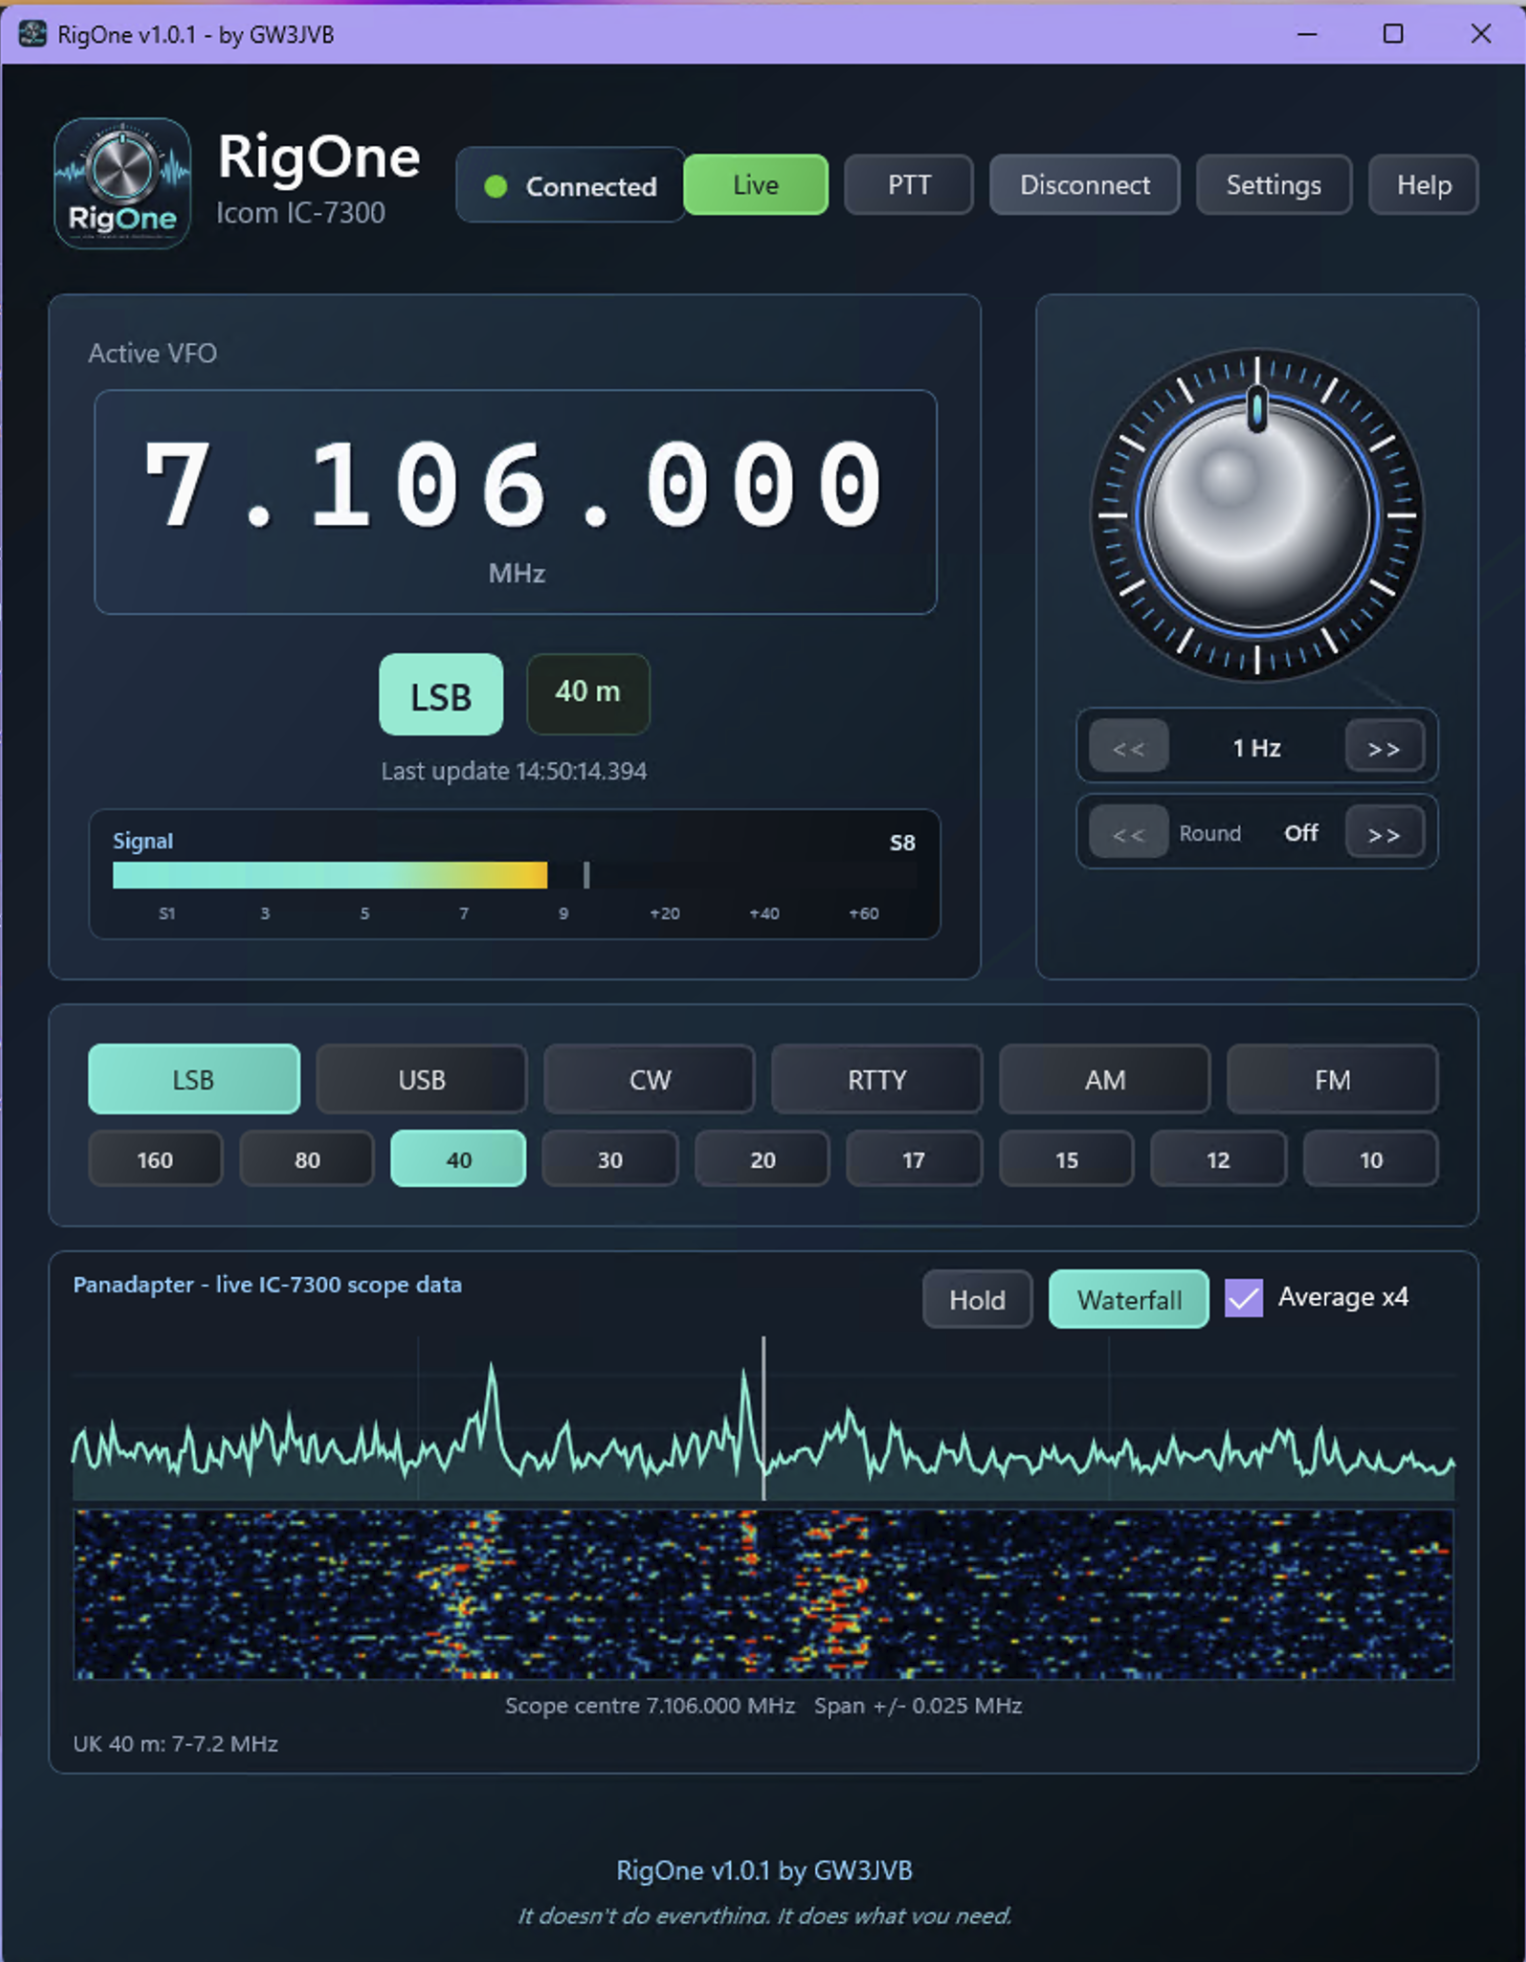
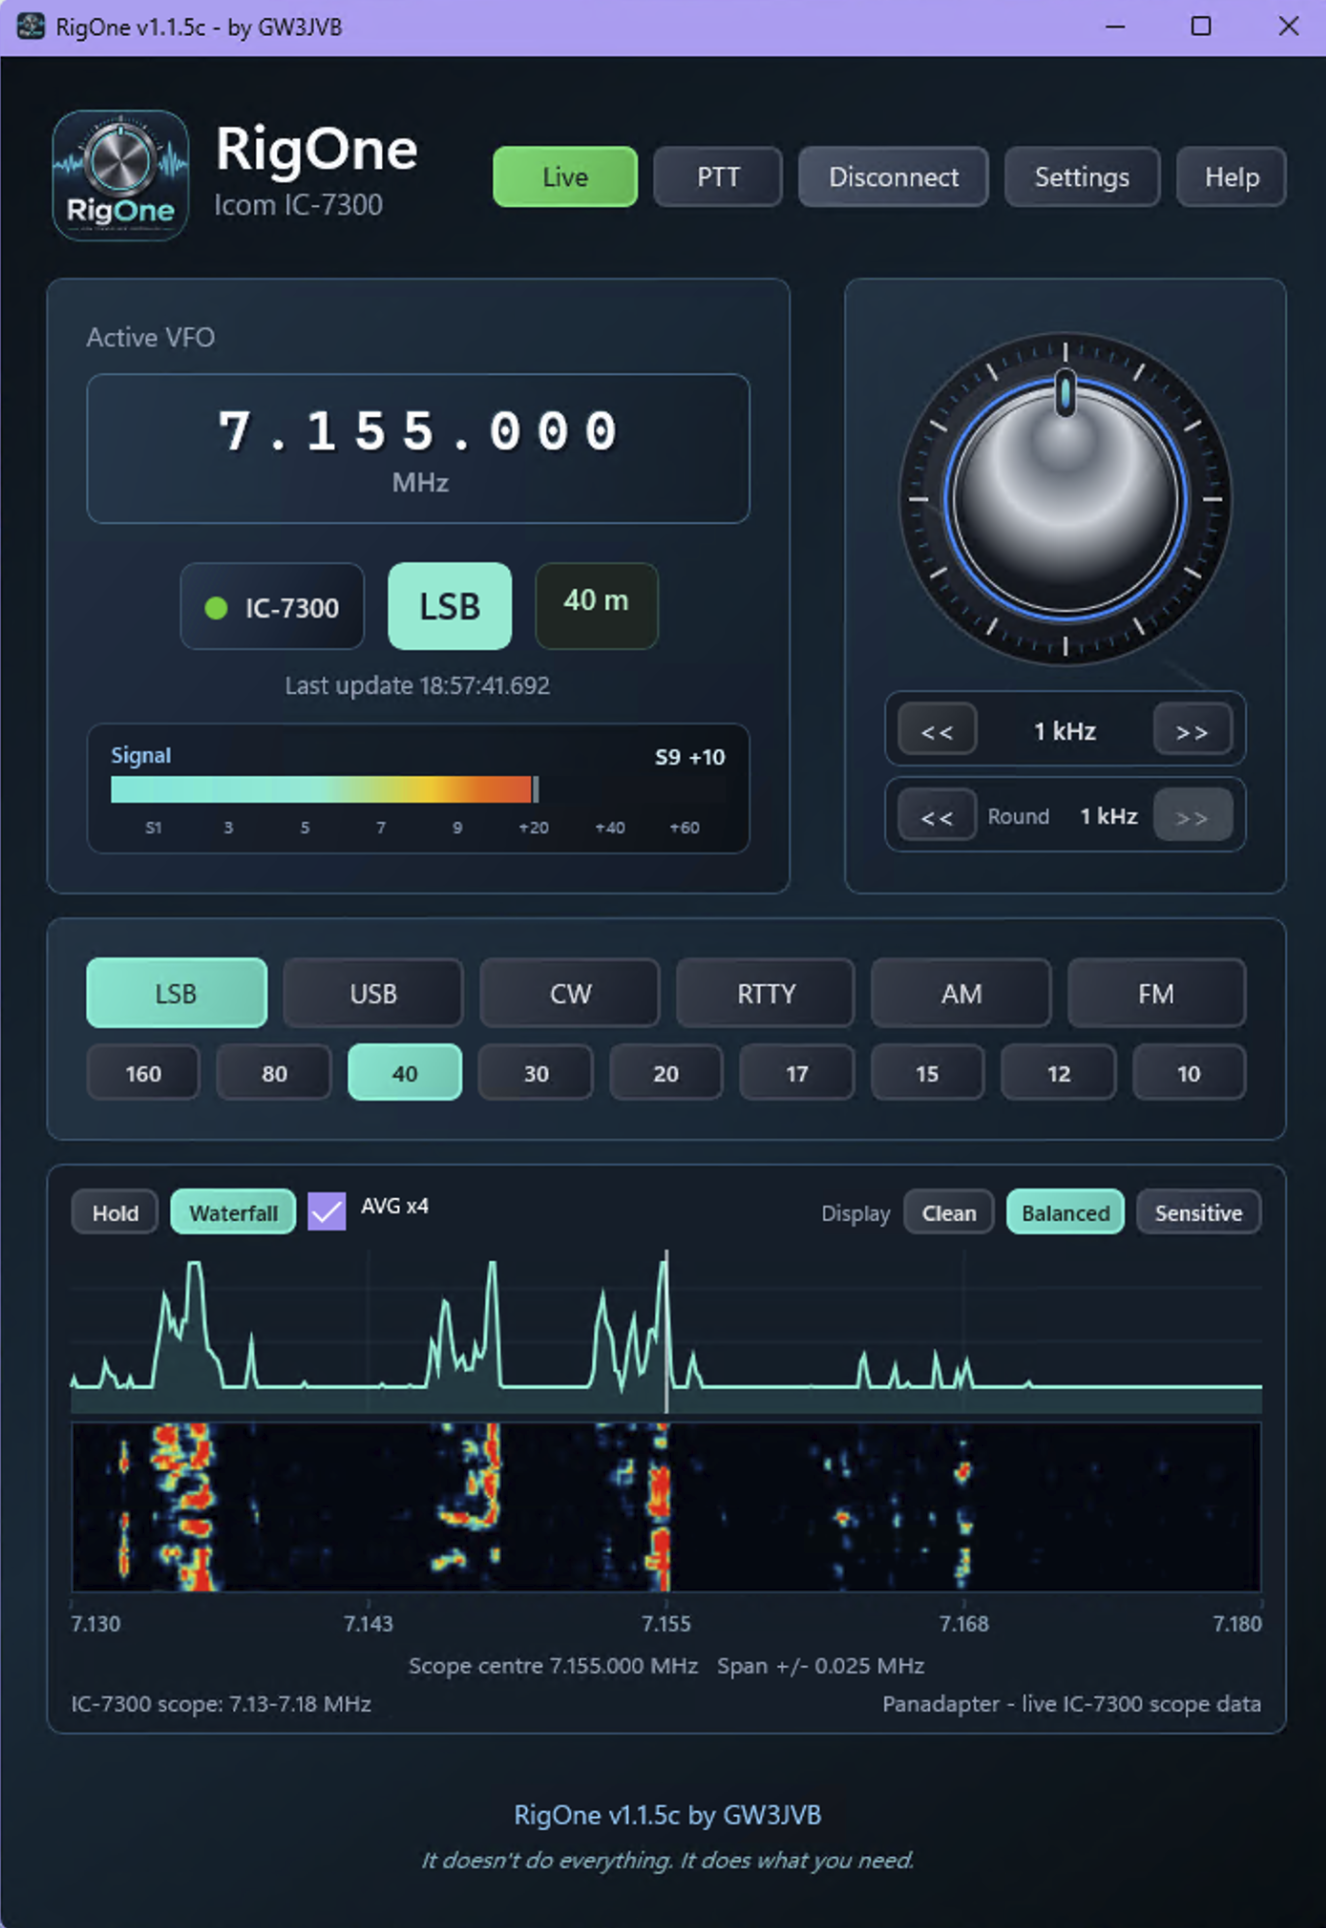
Update RigOne download page screenshot

diff --git a/README.md b/README.md
@@ -16,14 +16,14 @@ It doesn't do everything. It does what you need.
 
 ## Download
 
-The installer will be available from the **Releases** page:
+The latest installer is available from the **Latest Release** page:
 
-<https://github.com/reflectingme/RigOne-Downloads/releases>
+<https://github.com/reflectingme/RigOne-Downloads/releases/latest>
 
-Download the latest file named:
+Current release:
 
 ```text
-RigOne-Setup-vX.X.X.exe
+RigOne-Setup-v1.1.5.exe
 ```
 
 Then run the installer and follow the on-screen instructions.
@@ -38,11 +38,13 @@ RigOne is currently being tested with:
 
 Feedback from operators using other Hamlib-supported radios is very welcome.
 
+The direct IC-7300 control path provides the fullest RigOne experience, including live scope, panadapter, and waterfall support. Hamlib support broadens compatibility, but available features depend on what each Hamlib backend exposes for the selected radio.
+
 ## Support
 
 This software is developed voluntarily by John Burns, GW3JVB, in spare time.
 
-- Software page: <https://gw3jvb.uk/software/>
+- Software page: <https://gw3jvb.uk/software/rigone/>
 - Discord: <https://discord.gg/yTW4DzBBKQ>
 - Email: <mailto:gw3jvb@gmail.com>
 - PayPal: <https://www.paypal.com/paypalme/JohnVincentBurns>
